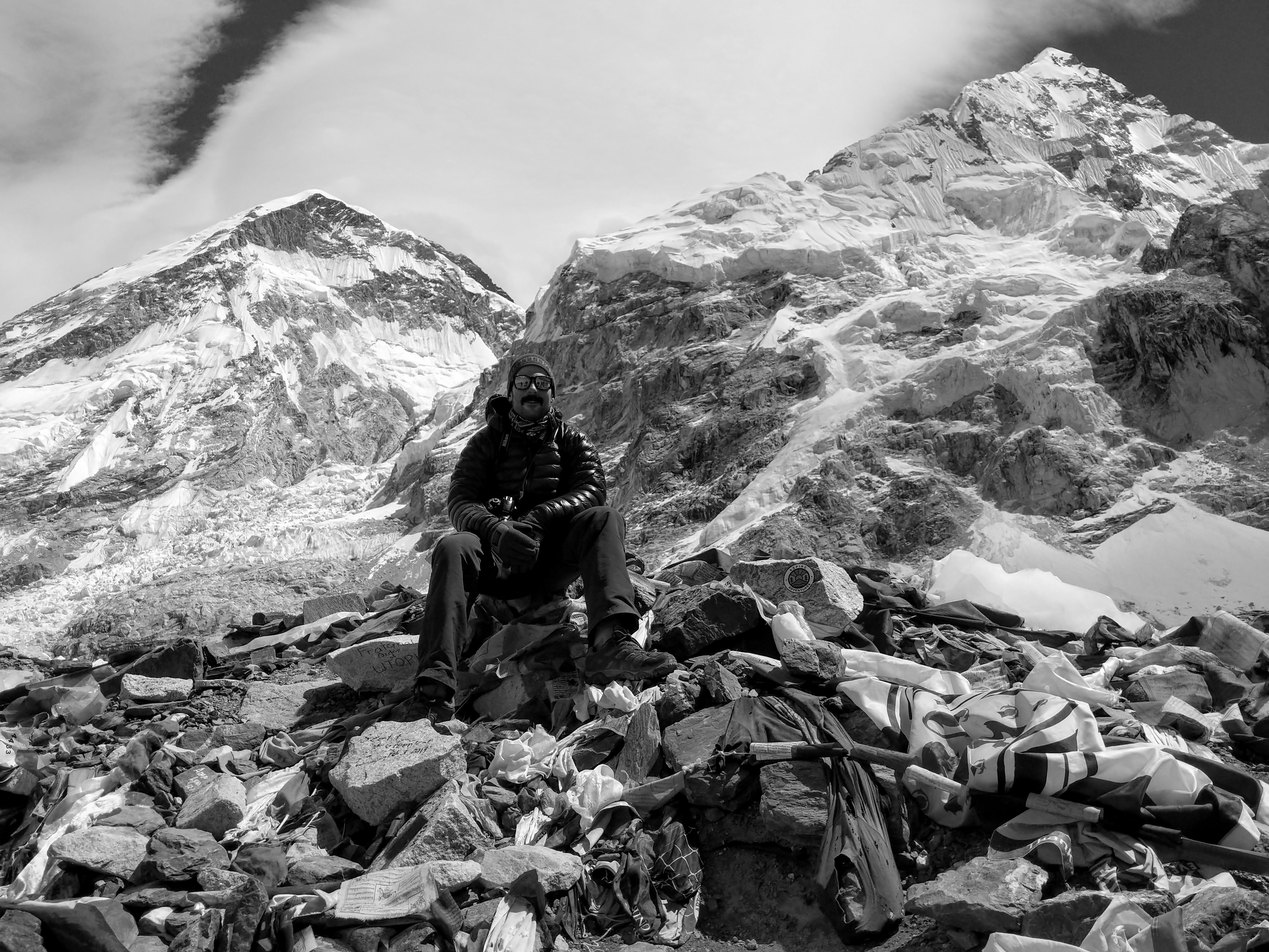
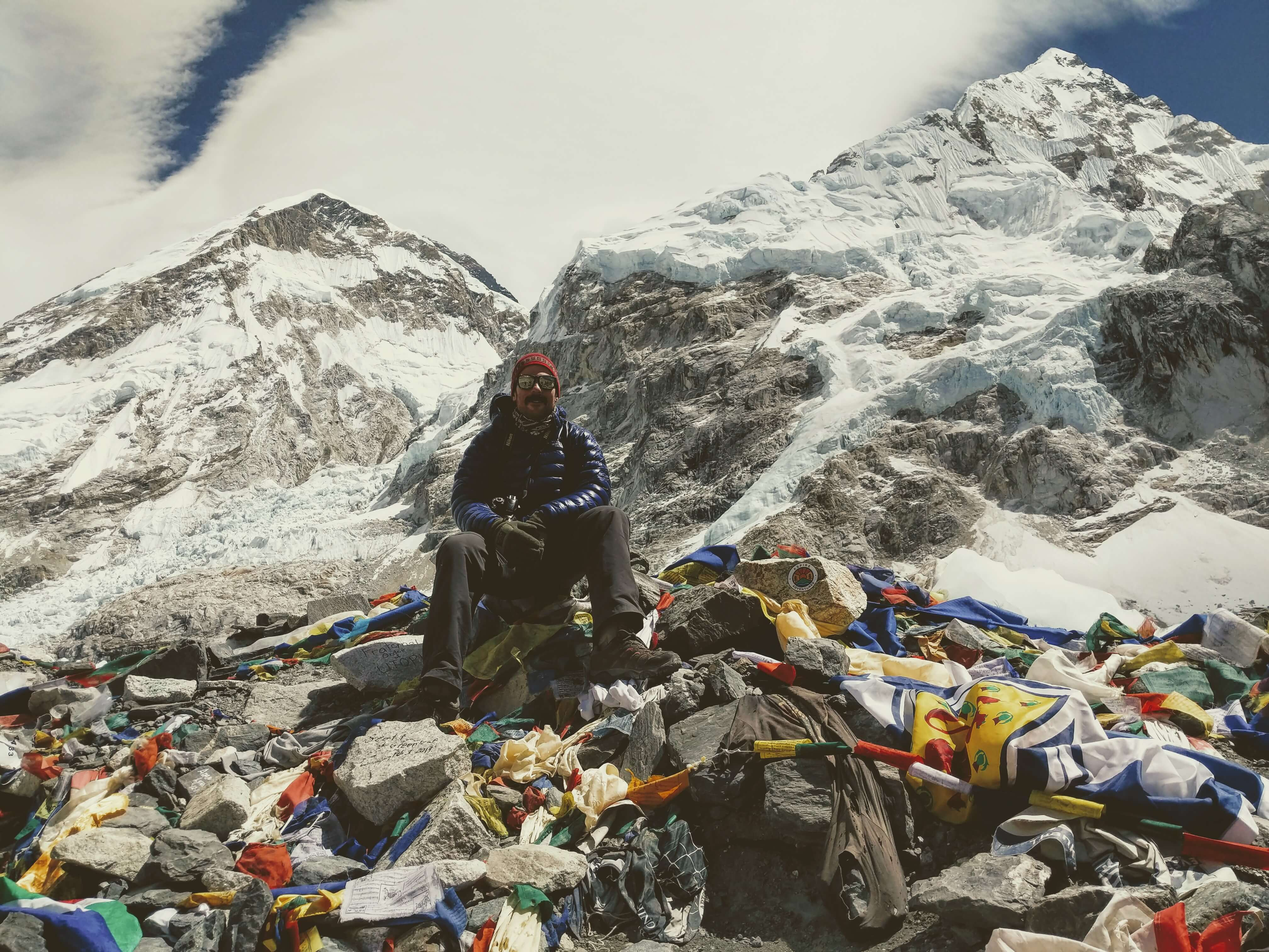
Site WIP

diff --git a/style.css b/style.css
@@ -1,7 +1,31 @@
 html, body {
+    height: 100%;
+    margin: 0;
     font-family: 'Open Sans', sans-serif;
-  }
+}
 
 .home-wrapper {
-    background-color: rgb(110, 110, 110);
+  /* The image used */
+  background-image: url("img/profile.jpg");
+
+  /* Full height */
+  height: 94%;
+
+  /* Center and scale the image nicely */
+  background-position: center;
+  background-repeat: no-repeat;
+  background-size: cover;
+
+  position: relative;
 }
+
+.home-text {
+    position: absolute; /* Position the background text */
+    background: rgb(0, 0, 0); /* Fallback color */
+    background: rgba(0, 0, 0, 0.5); /* Black background with 0.5 opacity */
+    color: #f1f1f1; /* Grey text */
+    padding: 10px; /* Some padding */
+    top: 50%;
+    left: 70%;
+    transform: translate(-50%, -50%);
+  }

diff --git a/index.html b/index.html
@@ -1,4 +1,5 @@
 <!DOCTYPE html>
+<meta name="viewport" content="width=device-width, initial-scale=1">
 <html>
   <head>
     <title>Anthony Paulozza</title>
@@ -19,9 +20,10 @@
           </a>
         </div>
 
-        <div id="home" class="home-wrapper">    
-           
-        </div>
+        <div id="home" class="home-wrapper">
+          <div class="home-text">
+            <p>Traveler / Software Engineer / Fitness and Food Enthuisiest</p>
+          </div>
   </body>
 
 

diff --git a/topnav.css b/topnav.css
@@ -2,6 +2,7 @@
 .topnav {
     background-color: #333;
     overflow: hidden;
+    height: 6%;
   }
   
   /* Style the links inside the navigation bar */
@@ -13,6 +14,7 @@
     padding: 14px 16px;
     text-decoration: none;
     font-size: 17px;
+    height: 100%;
   }
   
   /* Change the color of links on hover */
